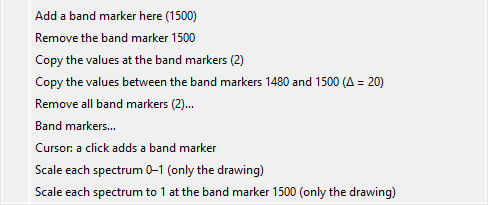
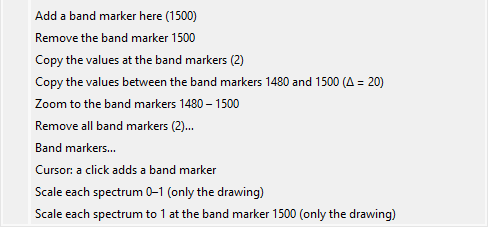
keep zoom: a "Zoomed" note while a zoom is kept; Zoom to the band markers
The risk of keep zoom is forgetting that the plot is zoomed (a band seems
missing in a newly selected spectrum, but it is only out of view). Now,
while keep zoom holds a zoom, an orange note beside the plot's toolbar
buttons says so - "Zoomed: 1450-1520 - Home shows all":
- shown as soon as the plot is zoomed (wheel, Zoom, Pan, a drag, a kept
  zoom of a new plot), its numbers follow further zooming and panning;
- gone with Home or zoomed out to the whole range, and when keep zoom is
  unticked (nothing is kept then);
- beside the Cursor's and scale each's notes; a part of the window, not of
  Copy plot or Save plot for publication;
- the same in the tool windows that keep the zoom (Peak Fitting, the
  baseline windows, Normalization ...);
- shown a moment after the change (a timer): if the window is gone by
  then, nothing happens (an error there, in a Qt callback, ended the whole
  Windows test run in the first try).

Right-click on the plot between two band markers > Zoom to the band
markers 1480 - 1500: the plot shows exactly that band (a margin of 5 % on
both sides keeps the marker lines in view), y fitted. With keep zoom every
other spectrum selected is shown there too; with scale each each one is
fitted 0-1 inside the band. Back returns to the view before. Not in the
Heatmap.

Help: User guide (keep zoom: remember that you are zoomed, the tool
windows; Between two band markers: Zoom to the band markers; the
right-click menu), Developer guide.
[…]

diff --git a/src/controllers/core/main_controller.py b/src/controllers/core/main_controller.py
@@ -3502,6 +3502,7 @@ class MainController(QMainWindow):
         if large_info is not None:
             large.finish(plot_widget, self.static_canvas, large_info)
         self._show_scale_each_note()
+        self._show_zoom_note()
         cursor = getattr(self, 'plot_cursor_controller', None)
         if cursor is not None:
             cursor.attach(self.static_canvas, plot_type)
@@ -3629,6 +3630,7 @@ class MainController(QMainWindow):
     def _on_keep_zoom_toggled(self, checked):
         from src.views import tool_keep_zoom
         tool_keep_zoom.set_enabled(checked)
+        self._show_zoom_note()
         try:
             from src.modules.misc.session_files import Preferences
             Preferences().set('keep_zoom', bool(checked))
@@ -3640,6 +3642,62 @@ class MainController(QMainWindow):
     def keep_zoom_on(self):
         box = getattr(self.view, 'keep_zoom_checkBox', None)
         return bool(box is not None and box.isChecked())
+
+    ZOOM_NOTE = "Zoomed: {lo}\u2013{hi} \u2013 Home shows all"
+
+    def _zoom_note_later(self):
+        """x changed (zoom, pan, Home ...): the note once the change is done."""
+        if getattr(self, '_zoom_note_pending', False):
+            return
+        self._zoom_note_pending = True
+        from PyQt5.QtCore import QTimer
+        QTimer.singleShot(0, self._show_zoom_note)
+
+    def _show_zoom_note(self):
+        """An orange note beside the plot's toolbar buttons while the plot is
+        zoomed and keep zoom keeps it: "Zoomed: 1450-1520 - Home shows all"
+        (forgetting the zoom is the risk of keep zoom). Not in pictures of the
+        plot: it is a part of the window."""
+        self._zoom_note_pending = False
+        # called later by a timer (_zoom_note_later): the window may be gone by
+        # then - an error here, in a Qt callback, would end the program
+        try:
+            toolbar = getattr(self, 'static_toolbar', None)
+            if toolbar is None:
+                return
+            text = ''
+            zoomed = self.zoomed_range() if self.keep_zoom_on() else None
+            if zoomed:
+                from src.modules.visualization.plot_notes import fmt
+                text = self.ZOOM_NOTE.format(lo=fmt(zoomed[0]), hi=fmt(zoomed[1]))
+            from src.views import toolbar_mode
+            toolbar_mode.set_note(toolbar, text, key='zoom')
+        except Exception:
+            pass
+
+    def zoom_to(self, lo, hi, margin=0.05):
+        """The main plot shows x from lo to hi (and a margin on both sides),
+        y fitted - e.g. right-click between two band markers > Zoom to the band
+        markers. Back / Home as for any zoom."""
+        canvas = getattr(self, 'static_canvas', None)
+        if canvas is None or not hi > lo:
+            return False
+        from src.modules.visualization import kept_view
+        pad = (hi - lo) * margin
+        toolbar = getattr(self, 'static_toolbar', None)
+        try:
+            if toolbar is not None:
+                toolbar.push_current()
+        except Exception:
+            pass
+        kept_view.apply(canvas.figure, lo - pad, hi + pad)
+        try:
+            if toolbar is not None:
+                toolbar.push_current()
+        except Exception:
+            pass
+        canvas.draw_idle()
+        return True
 
     def forget_zoom(self):
         """The next plot shows the whole range (Import data > New)."""
@@ -3691,6 +3749,9 @@ class MainController(QMainWindow):
         from src.modules.visualization import kept_view
         figure = canvas.figure
         kept_view.mark_home(figure)
+        # the "Zoomed: ..." note follows every change of x (_show_zoom_note)
+        for ax in kept_view.plot_axes(figure):
+            ax.callbacks.connect('xlim_changed', lambda _ax: self._zoom_note_later())
         kept = getattr(self, '_kept_zoom', None)
         if not kept or plot_type not in self.KEEP_ZOOM_TYPES or \
                 not (self.keep_zoom_on() or from_snapshot):
@@ -3847,6 +3908,10 @@ class MainController(QMainWindow):
             copy_between_action = context_menu.addAction(
                 f"Copy the values between the band markers {la} and {lb} "
                 f"(\u0394 = {fmt_x(b - a)})")
+        zoom_between_action = None
+        if between is not None and getattr(self, '_plotted_type', None) in self.KEEP_ZOOM_TYPES:
+            zoom_between_action = context_menu.addAction(
+                f"Zoom to the band markers {la} \u2013 {lb}")
         if len(markers.manager):
             remove_all_action = context_menu.addAction(
                 f"Remove all band markers ({len(markers.manager)})\u2026")
@@ -3929,6 +3994,9 @@ class MainController(QMainWindow):
             n, k = markers.copy_values(cursor.all_curves() if cursor is not None else [])
             self._status(f"Values of {n} spectra at {k} band marker{'s' if k != 1 else ''} "
                          f"copied \u2014 paste them into Excel")
+        elif zoom_between_action is not None and action == zoom_between_action:
+            (_la, a), (_lb, b) = between
+            self.zoom_to(min(a, b), max(a, b))
         elif copy_between_action is not None and action == copy_between_action:
             cursor = getattr(self, 'plot_cursor_controller', None)
             n = markers.copy_between(cursor.all_curves() if cursor is not None else [], between)

diff --git a/src/help/user_guide_help.py b/src/help/user_guide_help.py
@@ -1095,7 +1095,8 @@ def get_user_guide_help_content():
         series with &#9654; &mdash; every spectrum is shown at that band. Home shows the whole
         range; a range the window chooses itself is left as it is; a plot that has no data in the
         zoomed range (or is another kind of plot, e.g. a power spectrum) is shown whole. The
-        <em>keep zoom</em> tick of the main window switches it for these windows too.</p>
+        <em>keep zoom</em> tick of the main window switches it for these windows too; the same
+        orange <em>Zoomed: &hellip;</em> note shows it.</p>
         <div class="screenshot">
             <img src="$PLOT_OPTIONS_PANEL" width="$PLOT_OPTIONS_PANEL_W" height="$PLOT_OPTIONS_PANEL_H" alt="Basic plot options with keep zoom and scale each ticked" />
             <p class="caption">Basic plot options: <em>keep zoom</em> beside <em>Cursor</em>,
@@ -1104,9 +1105,10 @@ def get_user_guide_help_content():
 
         <h4>Good to know</h4>
         <ul>
-            <li><b>Remember that you are zoomed.</b> The numbers on the x-axis show the range;
-            Copy plot and Save plot for publication show the zoomed plot. Home is one click
-            away.</li>
+            <li><b>Remember that you are zoomed.</b> While a zoom is kept, an orange note beside
+            the plot's toolbar buttons says so, e.g. <em>Zoomed: 1450&ndash;1520 &ndash; Home shows
+            all</em> (it is part of the window, not of Copy plot or Save plot for publication,
+            which show the zoomed plot). Home is one click away; the note goes with it.</li>
             <li><b>Shown whole anyway:</b> after <em>Import data &rsaquo; New</em> (new spectra);
             in the <em>Heatmap</em> (and back from it in Overlay); and when the spectra now shown
             have no data in the zoomed range. Example: zoomed on 1000&ndash;1010
@@ -1328,6 +1330,12 @@ def get_user_guide_help_content():
         <p>The menu item also gives the <b>distance</b> between the two markers (&Delta;, in the x
         units of the data) &mdash; e.g. the splitting of a doublet or the shift between two bands,
         read without a calculator.</p>
+        <p id="zoom-to-markers"><b>Zoom to the band markers 1480 &ndash; 1500</b> (the next item of
+        the same menu) shows exactly that band &mdash; with a small margin (5&nbsp;%) on both sides
+        so the marker lines stay in view &mdash; and fits y to it. With <a href="#keep-zoom">keep
+        zoom</a> every other spectrum you select is then shown at that band; with <a
+        href="#scale-each">scale each</a> each one is fitted 0&ndash;1 inside it. Back returns to
+        the view before. (Not in the Heatmap.)</p>
         <p><b>The columns.</b> Everything is worked out from the spectrum's own points between the
         markers, with its values exactly at the two markers interpolated:</p>
         <table>
@@ -1612,6 +1620,7 @@ def get_user_guide_help_content():
             <tr><td><strong>Label the band here</strong>, <strong>Add text here&hellip;</strong>, <strong>Add an arrow here&hellip;</strong>, <strong>Labels on the plot&hellip;</strong></td><td>Your own labels at the place clicked &mdash; see <a href="#plot-labels">Labels on the plot</a></td></tr>
             <tr><td><strong>Show all spectra (n hidden)</strong></td><td>Only when spectra are hidden (a click on their names in the legend): shows them all again &mdash; see <a href="#plot-mouse">The mouse on the plot</a></td></tr>
             <tr><td><strong>Add a band marker here</strong></td><td>A band marker at the x clicked, labelled with its x above the plot &mdash; see <a href="#band-markers">Band Markers</a> (with the Cursor ticked a click on the plot does the same)</td></tr>
+            <tr><td><strong>Zoom to the band markers &hellip; &ndash; &hellip;</strong></td><td>Only between two neighbouring vertical markers: the plot shows that band (with a small margin), y fitted &mdash; see <a href="#zoom-to-markers">Zoom to the band markers</a></td></tr>
             <tr><td><strong>Copy the values between the band markers &hellip; (&Delta; = &hellip;)</strong></td><td>Only between two neighbouring vertical markers: the maximum, minimum, area and the band above the line joining its ends for every spectrum, as a table for Excel; the menu item shows the distance &mdash; see <a href="#between-markers">Between two band markers</a></td></tr>
             <tr><td><strong>Remove the band marker &hellip;</strong>, <strong>Copy the values at the band markers</strong>, <strong>Remove all band markers&hellip;</strong>, <strong>Band markers&hellip;</strong></td><td>The marker under the mouse removed; the spectra's values at every vertical marker copied as a table for Excel (one column per marker); all markers removed (it asks first); the Band markers window</td></tr>
             <tr><td><strong>Scale each spectrum 0&ndash;1 (only the drawing)</strong></td><td>Every spectrum drawn from 0 to 1 (&#10003; = on) &mdash; the same as <em>scale each</em> in Basic plot options; see <a href="#scale-each">scale each</a></td></tr>

diff --git a/tests/test_keep_zoom.py b/tests/test_keep_zoom.py
@@ -193,3 +193,105 @@ def test_home_after_reverse_x_while_zoomed(mc):
     mc.static_toolbar.back()                             # (Home is a new step: Back)
     _pump()
     assert _xr(ax) == pytest.approx((1450.0, 1520.0))
+
+
+def _note(mc):
+    return mc.static_toolbar._sax_mode_note.text()
+
+
+def test_the_zoomed_note(mc):
+    mc.view.resize(1400, 900)
+    mc.view.show()
+    _pump()
+    assert 'Zoomed' not in _note(mc)
+    _zoom(mc)
+    _pump()
+    assert 'Zoomed: 1450–1520 – Home shows all' in _note(mc)
+    mc.selected_spectra = mc.original_spectra[:3]           # kept: the note too
+    mc.plot_spectra()
+    _pump()
+    assert 'Zoomed: 1450–1520' in _note(mc)
+    mc.view.keep_zoom_checkBox.setChecked(False)           # nothing kept: no note
+    _pump()
+    assert 'Zoomed' not in _note(mc)
+    mc.view.keep_zoom_checkBox.setChecked(True)
+    _pump()
+    assert 'Zoomed' in _note(mc)
+    mc.static_toolbar.home()
+    _pump()
+    assert 'Zoomed' not in _note(mc)
+    mc.view.close()
+
+
+def _menu(mc, x, monkeypatch, choose=None):
+    from PyQt5.QtWidgets import QMenu
+    from matplotlib.backend_bases import MouseEvent
+    texts = []
+
+    def fake_exec(menu, *a, **k):
+        chosen = None
+        for act in menu.actions():
+            texts.append(act.text())
+            if choose and act.text().startswith(choose):
+                chosen = act
+        return chosen
+    monkeypatch.setattr(QMenu, 'exec_', fake_exec)
+    canvas = mc.static_canvas
+    ax = canvas.figure.axes[0]
+    canvas.draw()
+    px, py = ax.transData.transform((x, np.mean(ax.get_ylim())))
+    mc.handle_mouse_click(MouseEvent('button_press_event', canvas, px, py, button=3))
+    _pump()
+    return texts
+
+
+def test_zoom_to_the_band_markers(mc, monkeypatch):
+    markers = mc.band_markers()
+    markers.add_at(1480.0)
+    markers.add_at(1500.0)
+    texts = _menu(mc, 1490.0, monkeypatch, choose='Zoom to the band markers')
+    assert 'Zoom to the band markers 1480 – 1500' in texts
+    ax = _ax(mc)
+    assert _xr(ax) == pytest.approx((1479.0, 1501.0))      # a margin of 5 % each side
+    line = [l for l in ax.get_lines() if not l.get_gid()][0]
+    x, y = np.asarray(line.get_xdata()), np.asarray(line.get_ydata())
+    assert ax.get_ylim()[1] < 1.2 * y.max()                # y fitted to the band
+    mc.static_toolbar.back()                               # Back: as before
+    _pump()
+    assert _xr(_ax(mc))[1] > 2400
+    # kept for the next spectra
+    _menu(mc, 1490.0, monkeypatch, choose='Zoom to the band markers')
+    mc.selected_spectra = mc.original_spectra[4:6]
+    mc.plot_spectra()
+    _pump()
+    assert _xr(_ax(mc)) == pytest.approx((1479.0, 1501.0))
+    # not between two markers, or in the Heatmap: no such item
+    assert not [t for t in _menu(mc, 1200.0, monkeypatch) if t.startswith('Zoom to')]
+    mc.view.comboBox_plot_type_choice.setCurrentText("Heatmap")
+    _pump()
+    assert not [t for t in _menu(mc, 1490.0, monkeypatch) if t.startswith('Zoom to')]
+
+
+def test_the_note_after_the_window_is_gone(tmp_path, monkeypatch):
+    """The note is shown a moment after x changes (a timer): the window may be
+    gone by then - nothing must happen (an error in a Qt callback ends the
+    program; on Windows the whole test run stopped at it)."""
+    monkeypatch.setenv('SPECANALYTIXBASE_DATA_DIR', str(tmp_path / 'appdata'))
+    for n in ('information', 'warning', 'critical'):
+        monkeypatch.setattr(QMessageBox, n, staticmethod(lambda *a, **k: QMessageBox.Ok))
+    monkeypatch.setattr(QMessageBox, 'question', staticmethod(lambda *a, **k: QMessageBox.Yes))
+    from src.views.dialogs.misc import import_dialog
+    monkeypatch.setattr(import_dialog.ImportDialog, 'run', staticmethod(
+        lambda view, settings, file_paths=None: (True, [DATA], [{}])))
+    from src.controllers.core.main_controller import MainController
+    import sip
+    ctrl = MainController()
+    ctrl.import_controller._run_import(clear_first=True, file_paths=[DATA])
+    _pump()
+    ctrl.spectrum_selector.select_all_items()
+    _pump()
+    ctrl.static_canvas.figure.axes[0].set_xlim(1400, 1500)    # the note: a moment later
+    ctrl.autosave_controller.shutdown()
+    sip.delete(ctrl.view)
+    _pump()                                                   # still running
+    ctrl._show_zoom_note()

diff --git a/src/help/developer_guide_help.py b/src/help/developer_guide_help.py
@@ -3914,7 +3914,15 @@ def _natural_sort_key(cls, label):
             <code>release_pan</code> (wrapped on the instance - the buttons hold the bound methods
             made before). <code>set_enabled</code> from MainController's keep zoom tick. Tests:
             <code>tests/test_tool_keep_zoom.py</code> (a dummy window, Peak Fitting's arrows,
-            Normalization's list).</li>
+            Normalization's list). The orange note <em>Zoomed: lo&ndash;hi &ndash; Home shows
+            all</em> (<code>ZOOM_NOTE</code>, <code>KeepZoom.note</code> after
+            <code>record</code>; key <code>'zoom'</code> of <code>toolbar_mode.set_note</code>); in
+            the main window <code>MainController._show_zoom_note</code> - after a plot and on
+            <code>xlim_changed</code> of its axes (<code>_zoom_note_later</code>: a 0 ms QTimer),
+            and when the keep zoom tick changes; shown only while keep zoom is on and
+            <code>zoomed_range()</code> is not None. <code>MainController.zoom_to(lo, hi)</code>:
+            right-click between two band markers &rarr; Zoom to the band markers (5 % margin,
+            <code>kept_view.apply</code>, pushed to the toolbar's history).</li>
             <li><b>Values between two band markers</b> (1.7.0,
             <code>src/modules/visualization/band_between.py</code>, Qt-free):
             <code>pair_around</code> (the neighbouring X markers around the right-click's x),

diff --git a/src/views/tool_keep_zoom.py b/src/views/tool_keep_zoom.py
@@ -27,6 +27,7 @@ WINDOWS = ('PeakFittingDialog', 'BaselineCorrectionDialog', 'AutomatedBaselineDi
            'InteractiveSubtractionDialog')
 INSIDE = 0.005           # a range this far (of the data's span) inside the data: zoomed
 _OWN = '_sax_keep_zoom'
+ZOOM_NOTE = "Zoomed: {lo}\u2013{hi} \u2013 Home shows all"
 enabled = True           # MainController: the "keep zoom" tick of the main window
 
 
@@ -92,6 +93,24 @@ class KeepZoom:
             rng = kept_view.x_range(ax)
             if is_zoomed(rng, full):
                 self.kept[i] = (rng[0], rng[1], ax.get_xlabel())
+        self.note()
+
+    def note(self):
+        """The orange "Zoomed: ... - Home shows all" note beside the plot's
+        toolbar buttons while a zoom is kept (as in the main window)."""
+        toolbar = getattr(self.canvas, 'toolbar', None)
+        if toolbar is None:
+            return
+        text = ''
+        if enabled and self.kept:
+            from src.modules.visualization.plot_notes import fmt
+            lo, hi, _label = self.kept[min(self.kept)]
+            text = ZOOM_NOTE.format(lo=fmt(lo), hi=fmt(hi))
+        try:
+            from src.views import toolbar_mode
+            toolbar_mode.set_note(toolbar, text, key='zoom')
+        except Exception:
+            pass
 
     def fix(self):
         """Just before a draw: a plot drawn anew (its whole range) goes back

diff --git a/tests/test_tool_keep_zoom.py b/tests/test_tool_keep_zoom.py
@@ -300,3 +300,18 @@ def test_processing_windows_keep_the_zoom_and_fit_y(operation, list_name, monkey
     assert seen['zoom'][1] - seen['zoom'][0] < 1000
     assert seen['after'] == pytest.approx(seen['zoom'], rel=1e-6)
     assert seen['top_after'] < 0.8 * seen['top_before']     # sp005 is much weaker: y fitted
+
+
+def test_the_zoomed_note_in_a_tool_window():
+    dlg = _open()
+    note = dlg.toolbar._sax_mode_note
+    assert 'Zoomed' not in note.text()
+    zoom = _wheel_zoom(dlg)
+    assert note.text().startswith('Zoomed: ') and 'Home shows all' in note.text()
+    dlg.show_spectrum(2.0)
+    _pump()
+    assert note.text().startswith('Zoomed: ')
+    dlg.toolbar.home()
+    _pump()
+    assert 'Zoomed' not in note.text()
+    dlg.close()
